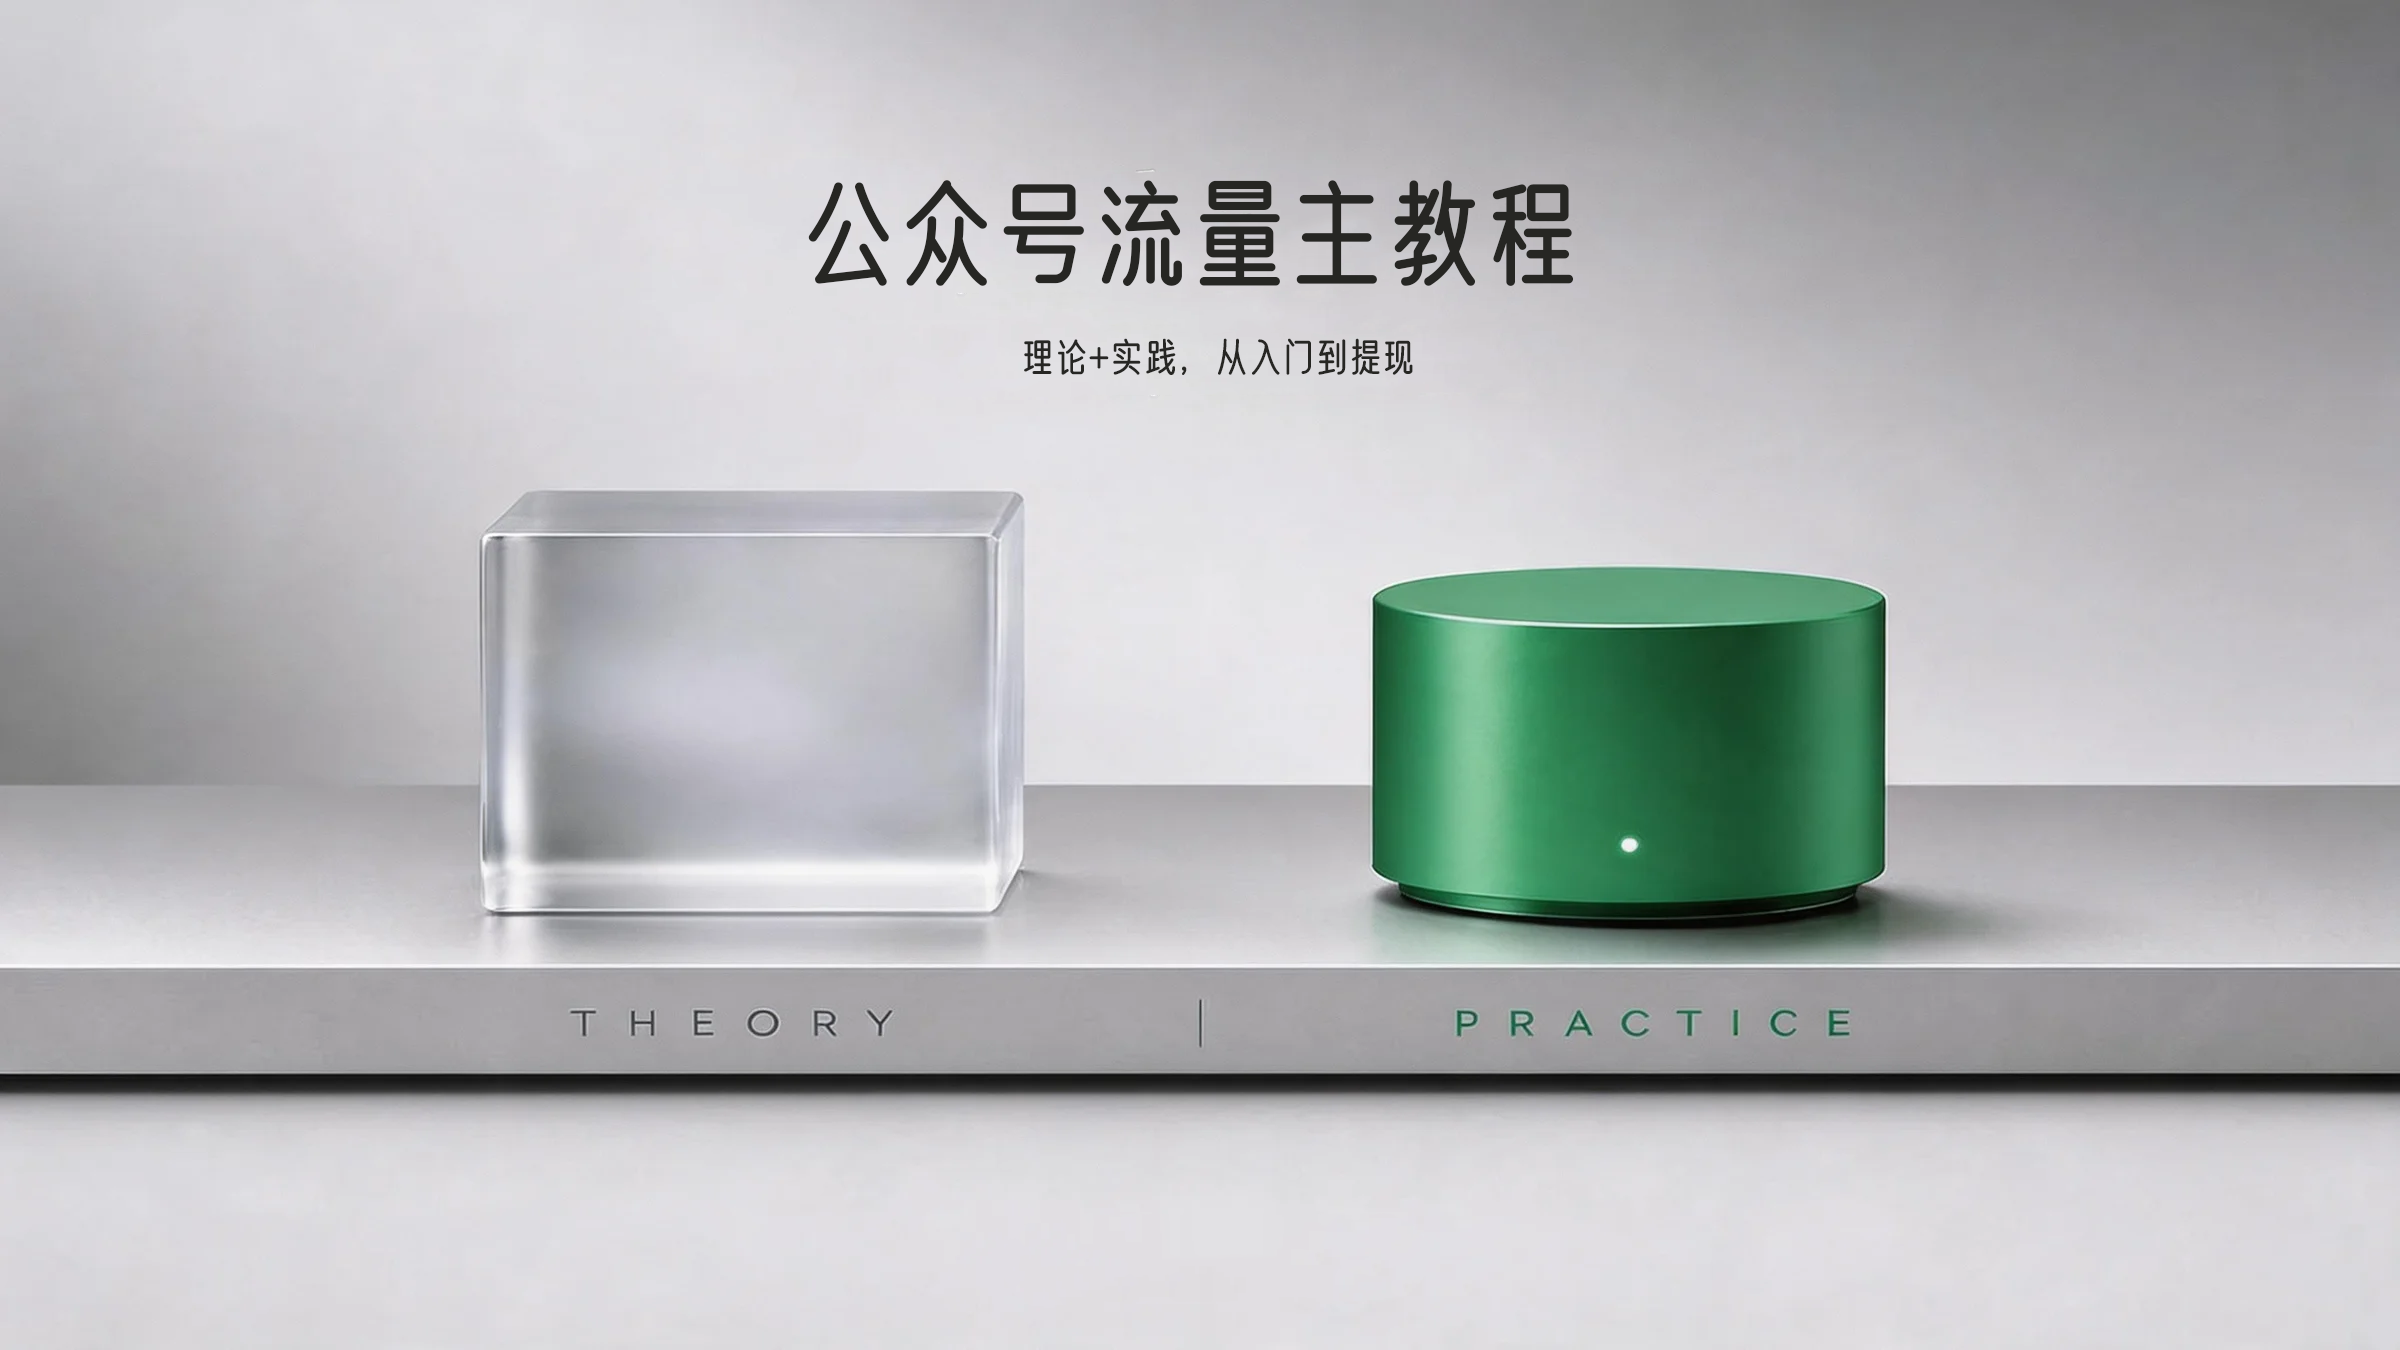
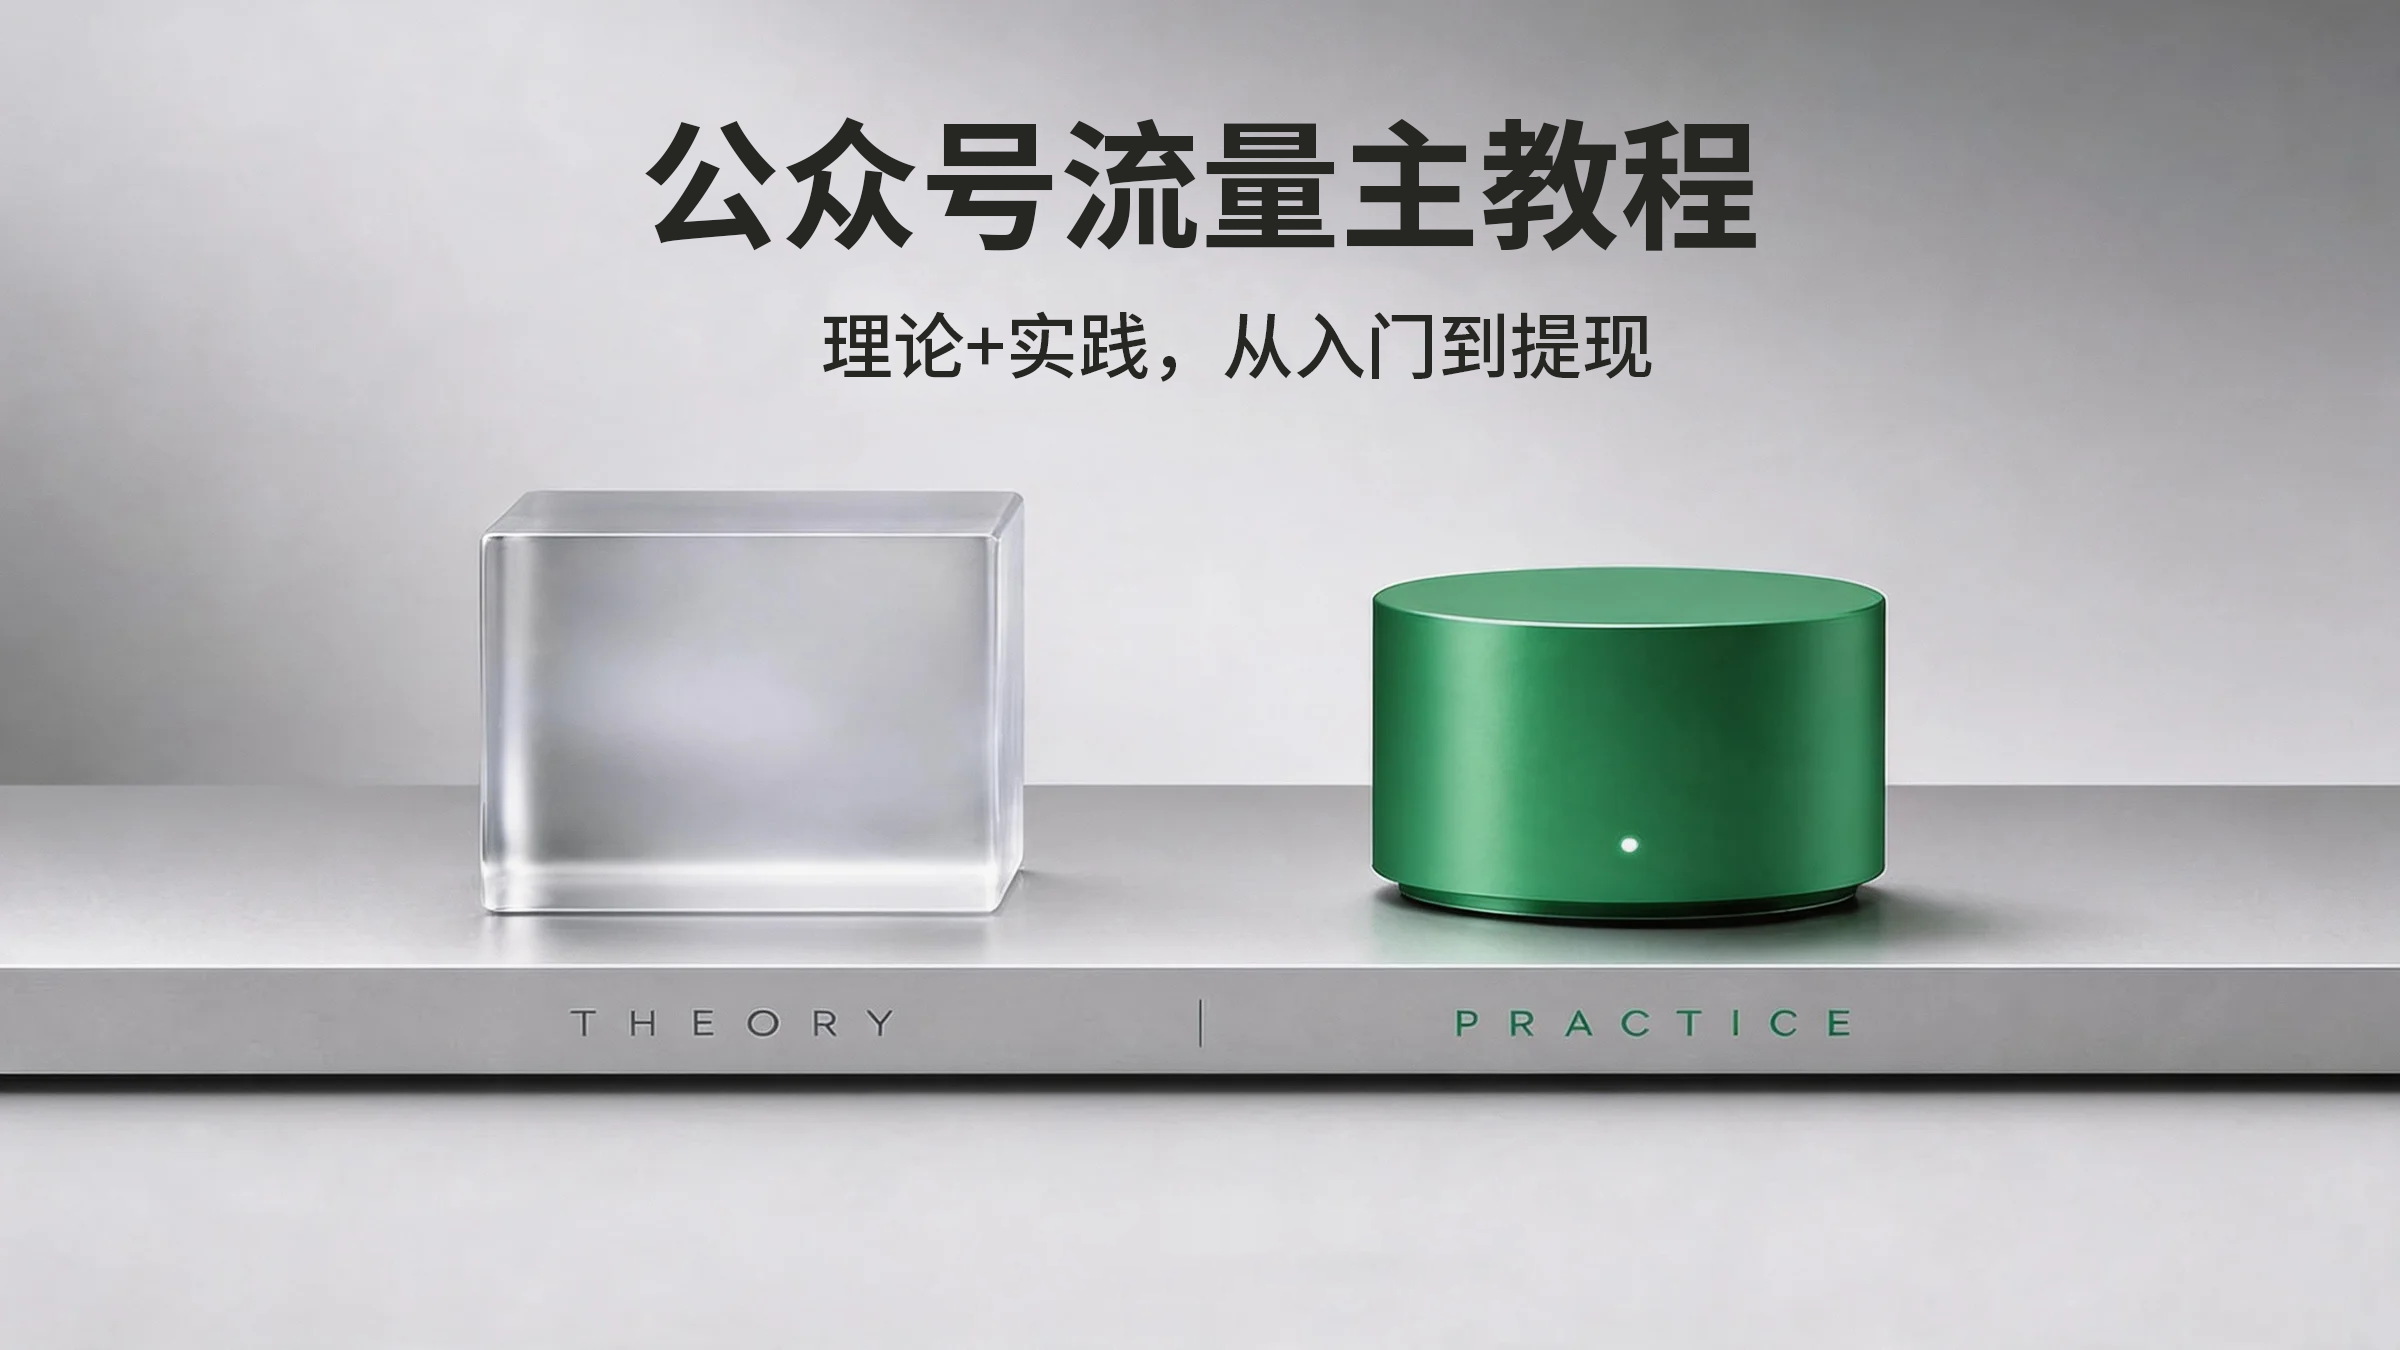
style: update home hero badge text to start to withdraw

Changed region(s): [[0.25, 0.0933, 0.75, 0.28]]

diff --git a/src/components/Home.tsx b/src/components/Home.tsx
@@ -42,7 +42,7 @@ export const Home: React.FC = () => {
       {/* Hero Section */}
       <section className="home-hero">
         <div className="hero-content">
-          <span className="badge">从入门到赚钱</span>
+          <span className="badge">从入门到提现</span>
           <h1 className="hero-title">
             微信公众号流量主<br />
             <span className="gradient-text">从零起步到 AI 高效创作指南</span>